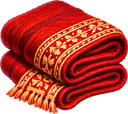
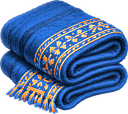
Javítás: régi meglepetések leállították a buborékok rajzolását; sarokjelzés a beszedhető épületekhez; minden jószág a felső sávban; kék posztó ikon
Claude-Session: https://claude.ai/code/session_01TrxMZhgVc5kkxwtpbvR8se

diff --git a/e04.html b/e04.html
@@ -354,6 +354,7 @@ textarea.pin{resize:vertical;min-height:70px;font-weight:700}
 @media (max-width:1650px){.freecnt{display:none}}.card .desc{display:-webkit-box;-webkit-line-clamp:2;-webkit-box-orient:vertical;overflow:hidden}.card[data-lot] .pic>span:first-child{width:110px!important;height:56px!important;margin:0 0 4px!important}.card[data-lot] .pic>span:first-child img{width:110px!important;height:56px!important;max-height:none!important}.card[data-lot] .pic>span:first-child b{width:28px!important;height:28px!important;font-size:20px!important}
 @media (max-height:760px){.card .pic{height:56px!important}.card .pic img{max-height:52px!important}}
 @media (max-height:620px){.card .pic{height:44px!important}.card .pic img{max-height:42px!important}.card .chip{font-size:10px;padding:1px 6px}.drawer-head{padding-top:4px!important;padding-bottom:4px!important}}
+.jv-more{display:inline-flex;gap:8px;margin-left:10px;padding-left:10px;border-left:1px solid rgba(255,240,210,.18);align-items:center}.jv{display:inline-flex;align-items:center;gap:4px;line-height:1}.jv img{width:26px;height:26px;object-fit:contain}.jv b{display:block;font-size:15px;color:#FFF4DF}.jv i{display:none}.jv>span{display:flex;flex-direction:column}@media (max-width:1100px){.jv-more{gap:6px;margin-left:8px;padding-left:8px}.jv img{width:22px;height:22px}}@media (max-width:760px){.jv-more{display:none}}
 </style>
 
 <div id="app"><button class="ibtn wood" type="button" id="btnDaily" aria-label="Napi feladatok"><span class="newdot" id="bDaily" hidden>!</span><svg width="22" height="22" viewBox="0 0 24 24" fill="none" stroke="#FFF4DF" stroke-width="2" stroke-linecap="round" stroke-linejoin="round" aria-hidden="true"><path d="M6 3h10a2 2 0 0 1 2 2v14a2 2 0 0 0 2 2H8a2 2 0 0 1-2-2z"/><path d="M6 3a2 2 0 0 0-2 2v2h2M10 9h5M10 13h5"/></svg>Napi</button><button class="ibtn wood" type="button" id="btnSide" aria-label="Monda" hidden><span class="newdot" id="bSide" hidden>!</span><svg width="22" height="22" viewBox="0 0 24 24" fill="none" stroke="#FFF4DF" stroke-width="2" stroke-linecap="round" stroke-linejoin="round" aria-hidden="true"><path d="M4 20l9-9M13 11l3-3a2.5 2.5 0 1 1 3.5 3.5l-3 3M11 13l3 3"/><circle cx="17.5" cy="6.5" r="1"/></svg><span>Monda</span></button><div id="chiefPops"></div><button class="btn coral" type="button" id="migChip" hidden></button><div class="movefx" id="moveFx"><span id="moveTxt"></span></div>
@@ -367,7 +368,7 @@ textarea.pin{resize:vertical;min-height:70px;font-weight:700}
     <div class="res" title="Pénz. Minden évben új pénzt vernek, és a régit be kell váltani, persze kicsit kevesebbre. Ez a kamara haszna."><img src="img/e03_ikon_penz.png" alt="Pénz (dénár)"><span><span class="num" id="rPenz">0</span><span class="lbl">Pénz · dénár</span></span></div>
     <div class="res" title="Termény (a raktár legfeljebb 1 000-et tart)"><img src="img/ikon_termeny.png" alt="Termény"><span><span class="num" id="rTerm">0</span><span class="cap" id="rCap"> / 1 000</span><span class="lbl">Termény</span></span></div>
     <div class="res" title="Tudás, magától gyűlik és a kutatáshoz kell"><img src="img/ikon_tudas.png" alt="Tudás"><span><span class="num" id="rTud">0</span><span class="lbl">Tudás</span></span></div>
-    <div class="res kincs" id="rJavak" role="button" tabindex="0" title="Fa és a többi jószág. Koppints rá, és a Raktárban mindet látod." style="cursor:pointer"><img src="img/e04_ikon_fa.png" alt="Fa"><span><span class="num" id="rKov">0</span><span class="lbl">Fa · Javak</span></span></div>
+    <div class="res kincs" id="rJavak" role="button" tabindex="0" title="Fa és a többi jószág. Koppints rá, és a Raktárban mindet látod." style="cursor:pointer"><img src="img/e04_ikon_fa.png" alt="Fa"><span><span class="num" id="rKov">0</span><span class="lbl">Fa</span></span><span class="jv-more" id="rJvMore"></span></div>
     <div class="res pop" title="Lakosok (szabad / összes)">
       <svg width="22" height="22" viewBox="0 0 24 24" fill="none" stroke="#FFF4DF" stroke-width="2" stroke-linecap="round" aria-hidden="true"><circle cx="9" cy="8" r="3"/><path d="M3 20c1-3.5 3.3-5 6-5s5 1.5 6 5"/><circle cx="17" cy="9" r="2.5"/><path d="M16 14.5c2.4 0 4.2 1.5 5 4"/></svg>
       <span><span class="num" id="rPop" style="font-size:18px">0</span><span class="lbl">Lakosok</span></span>
@@ -1604,8 +1605,9 @@ function takeSurp(x) {
   sfxCollect(); toast(tr(t.name) + '!'); save();
 }
 function drawSurprises(now) {
+  if (S.surp && S.surp.some(x => !SURPRISES.some(e => e.id === x.t))) S.surp = S.surp.filter(x => SURPRISES.some(e => e.id === x.t));
   (S.surp || []).forEach(x => {
-    const t = SURPRISES.find(e => e.id === x.t); const ic = IMG[t.icon]; const [cx, cy0] = surpPos(x);
+    const t = SURPRISES.find(e => e.id === x.t); if (!t) return; const ic = IMG[t.icon]; const [cx, cy0] = surpPos(x);
     const cy = cy0 + Math.sin(now / 400 + x.i * 3 + x.j) * 4; const left = x.born + SURP_LIFE - S.gt;
     ctx.save(); if (left < 600) ctx.globalAlpha = 0.55 + 0.45 * Math.abs(Math.sin(now / 300));
     ctx.beginPath(); ctx.ellipse(cx, cy0 + 30, 16, 6, 0, 0, 7); ctx.fillStyle = 'rgba(0,0,0,0.25)'; ctx.fill();
@@ -1813,6 +1815,7 @@ Object.assign(EN, {
   'Kidőlt fa': 'Fallen tree', 'Vadszőlő a bokorban': 'Wild grapes in the bush', 'Elkóborolt birka': 'Stray sheep', 'Csillogó kő': 'Shiny stone', 'Leesett boroshordó': 'Dropped wine barrel', 'Elhagyott posztóbála': 'Abandoned bale of cloth', 'Rozsdás kard a fűben': 'Rusty sword in the grass',
   'Pénz, Tudás, Fa és Vas': 'Money, Knowledge, Wood and Iron', 'Tudás, Korona, Gyapjú és Posztó': 'Knowledge, Crowns, Wool and Cloth', 'Pénz, Hangulat, Szőlő és Bor': 'Money, Mood, Grapes and Wine', 'Pénz, Tudás, Érc és Vas': 'Money, Knowledge, Ore and Iron', 'Tudás, Korona, Fa és Bor': 'Knowledge, Crowns, Wood and Wine'
 });
+
 
 // ---------- a háttér fái, kövei, szőlősorai: akadályok, pénzért eltakaríthatók ----------
 const OBST_P = {};
@@ -3120,8 +3123,8 @@ function draw(now) {
   const order = depthOrder(items.concat(obstItems(items)));
   try { drawShadows(order); } catch (e) { noteErr(e); }
   order.forEach(b => { try { drawBuilding(b, now, 0); } catch (e) { noteErr(e); } });
-  drawLots();
-  drawSurprises(now);
+  try { drawLots(); } catch (e) { noteErr(e); }
+  try { drawSurprises(now); } catch (e) { noteErr(e); }
   order.forEach(b => { try { drawBuilding(b, now, 1); } catch (e) { noteErr(e); } });
   if (tool && hover && tool.type !== 'ut') { try { const [ow, oh] = typeof dimsT === 'function' ? dimsT(tool.type, tool.rot) : [DEF[tool.type].size, DEF[tool.type].size]; ctx.save(); ctx.setLineDash([8, 6]); ctx.lineWidth = 2.5; rectRaw(hover[0], hover[1], ow, oh, null, 'rgba(255,255,255,0.9)'); ctx.restore(); } catch (e) {} }
   if (tool && tool.type === 'ut' && hover && inArea(hover[0], hover[1])) { const [x, y] = tileTop(hover[0], hover[1]); ctx.save(); ctx.globalAlpha = .7; ctx.fillStyle = '#D69C5E'; ctx.beginPath(); ctx.ellipse(x, y + TH / 2, TW * 0.17, TH * 0.17, 0, 0, 7); ctx.fill(); ctx.restore(); }
@@ -3387,7 +3390,7 @@ function tap(sx, sy) {
 
 // ---------- HUD ----------
 function hud() {
-  $('rPenz').textContent = fmt(S.res.penz); $('rTerm').textContent = fmt(S.res.termeny); $('rTud').textContent = fmt(S.res.tudas); $('rKov').textContent = fmt(S.res.fa || 0);
+  $('rPenz').textContent = fmt(S.res.penz); $('rTerm').textContent = fmt(S.res.termeny); $('rTud').textContent = fmt(S.res.tudas); $('rKov').textContent = fmt(S.res.fa || 0); { const jm = $('rJvMore'); if (jm) jm.innerHTML = GOODS.filter(k => k !== 'fa').map(k => `<span class="jv" title="${tr(RES[k].name)}"><img src="img/${RES[k].icon}.png" alt=""><span><b>${fmt(S.res[k] || 0)}</b><i>${tr(RES[k].name)}</i></span></span>`).join(''); }
   const capT = ' / ' + fmt(termCap()); if ($('rCap').textContent !== capT) $('rCap').textContent = capT; $('rTerm').parentElement.parentElement.classList.toggle('full', S.res.termeny >= termCap());
   $('korN').textContent = S.korona == null ? 25 : S.korona;
   const p = pop(), w = workers(); $('rPop').textContent = (p - w) + ' / ' + p;
@@ -5425,6 +5428,39 @@ function rearUI() {
     $('hvnT1').onclick = () => { if (S.night) { S.night.test = true; morning(false); } else startNight(Date.now(), true); };
     $('hvnT2').onclick = () => { if (S.night) return; if (openModal) closeModal(); ask(); };
   }
+
+  // ---- sarokjelzés, mint a Forge-ban: ha van mit beszedni, megmutatja, hol ----
+  const rdy = document.createElement('button'); rdy.id = 'hvnReady'; rdy.type = 'button'; rdy.hidden = true; document.body.appendChild(rdy);
+  const st2 = document.createElement('style');
+  st2.textContent = `#hvnReady{position:fixed;right:calc(18px + env(safe-area-inset-right,0px));bottom:calc(270px + env(safe-area-inset-bottom,0px));z-index:6;width:66px;height:66px;border-radius:50%;border:4px solid #F5C542;background:#FFF4DF;box-shadow:0 6px 18px rgba(40,20,5,.35);cursor:pointer;padding:0;display:flex;align-items:center;justify-content:center;animation:hvnBob 2.4s ease-in-out infinite}
+  #hvnReady img{width:42px;height:42px;object-fit:contain;pointer-events:none}#hvnReady[hidden]{display:none}
+  #hvnReady b{position:absolute;top:-6px;right:-6px;min-width:24px;height:24px;padding:0 6px;border-radius:12px;background:#C9472F;color:#fff;font:800 13px/24px Nunito,sans-serif;box-shadow:0 2px 6px rgba(0,0,0,.3)}
+  #hvnReady span{position:absolute;bottom:-22px;left:50%;transform:translateX(-50%);white-space:nowrap;font:800 11px Nunito,sans-serif;color:#FFF4DF;text-shadow:0 1px 3px rgba(0,0,0,.8)}
+  @keyframes hvnBob{0%,100%{transform:translateY(0)}50%{transform:translateY(-4px)}}`;
+  document.head.appendChild(st2);
+  let rIdx = 0, focus = null, pan = null, rSig = '';
+  const readyList = () => S.buildings.filter(b => { try { return DEF[b.type] && DEF[b.type].prod && ready(b) && !(typeof storeFull === 'function' && storeFull(b)); } catch (e) { return false; } });
+  const ctr = b => { const r = spriteRect(b); if (!r) return null; return [r.cx != null ? r.cx : (r.L[0] + r.R[0]) / 2, r.y + r.h * 0.55]; };
+  function updReady() {
+    const list = S && !S.night && !(typeof tool !== 'undefined' && tool) ? readyList() : [];
+    if (!list.length) { rdy.hidden = true; rSig = ''; return; }
+    const k = Object.keys(DEF[list[0].type].prod)[0], im = (typeof IMG !== 'undefined' && IMG[RES[k] && RES[k].icon]) || null, src = im ? im.src : 'img/' + (RES[k] && RES[k].icon) + '.png';
+    const sig = list.length + '|' + src; if (sig !== rSig) { rSig = sig; rdy.innerHTML = `<img src="${src}" alt=""><b>${list.length}</b><span>${tr('Beszedhető')}</span>`; rdy.title = tr('Van mit beszedni! Koppints, és megmutatom, hol.'); }
+    rdy.hidden = false;
+  }
+  rdy.onclick = () => {
+    const list = readyList(); if (!list.length) return; const b = list[rIdx++ % list.length], c = ctr(b); if (!c) return;
+    const fx = camX + W / scale / 2, fy = camY + H / scale / 2; pan = { fx, fy, tx: c[0], ty: c[1], t0: performance.now() }; focus = { id: b.id, t0: performance.now() };
+  };
+  const _draw2 = draw;
+  draw = function (now) {
+    if (pan) { const k = Math.min(1, (performance.now() - pan.t0) / 450), e = 1 - Math.pow(1 - k, 3); centerOn(pan.fx + (pan.tx - pan.fx) * e, pan.fy + (pan.ty - pan.fy) * e); if (k >= 1) pan = null; }
+    _draw2(now);
+    if (focus) { const age = performance.now() - focus.t0, b = S.buildings.find(x => x.id === focus.id); if (age > 2600 || !b) { focus = null; return; }
+      const c = ctr(b); if (!c) return; const x = (c[0] - camX) * scale, y = (c[1] - camY) * scale, R = (60 + 14 * Math.sin(age / 140)) * Math.max(0.6, scale);
+      ctx.save(); ctx.setTransform(DPR, 0, 0, DPR, 0, 0); ctx.globalAlpha = Math.min(1, (2600 - age) / 600); ctx.lineWidth = 5; ctx.strokeStyle = '#F5C542'; ctx.shadowColor = 'rgba(255,230,150,.9)'; ctx.shadowBlur = 14; ctx.beginPath(); ctx.ellipse(x, y, R * 1.25, R * 0.75, 0, 0, 7); ctx.stroke(); ctx.restore(); }
+  };
+  setInterval(() => { try { updReady(); } catch (e) {} }, 1000);
 
   try { fromAway(); } catch (e) {}
   markSeen(); renderBar();

diff --git a/e01.html b/e01.html
@@ -3509,6 +3509,39 @@ function rearUI() {
     $('hvnT2').onclick = () => { if (S.night) return; if (openModal) closeModal(); ask(); };
   }
 
+  // ---- sarokjelzés, mint a Forge-ban: ha van mit beszedni, megmutatja, hol ----
+  const rdy = document.createElement('button'); rdy.id = 'hvnReady'; rdy.type = 'button'; rdy.hidden = true; document.body.appendChild(rdy);
+  const st2 = document.createElement('style');
+  st2.textContent = `#hvnReady{position:fixed;right:calc(18px + env(safe-area-inset-right,0px));bottom:calc(270px + env(safe-area-inset-bottom,0px));z-index:6;width:66px;height:66px;border-radius:50%;border:4px solid #F5C542;background:#FFF4DF;box-shadow:0 6px 18px rgba(40,20,5,.35);cursor:pointer;padding:0;display:flex;align-items:center;justify-content:center;animation:hvnBob 2.4s ease-in-out infinite}
+  #hvnReady img{width:42px;height:42px;object-fit:contain;pointer-events:none}#hvnReady[hidden]{display:none}
+  #hvnReady b{position:absolute;top:-6px;right:-6px;min-width:24px;height:24px;padding:0 6px;border-radius:12px;background:#C9472F;color:#fff;font:800 13px/24px Nunito,sans-serif;box-shadow:0 2px 6px rgba(0,0,0,.3)}
+  #hvnReady span{position:absolute;bottom:-22px;left:50%;transform:translateX(-50%);white-space:nowrap;font:800 11px Nunito,sans-serif;color:#FFF4DF;text-shadow:0 1px 3px rgba(0,0,0,.8)}
+  @keyframes hvnBob{0%,100%{transform:translateY(0)}50%{transform:translateY(-4px)}}`;
+  document.head.appendChild(st2);
+  let rIdx = 0, focus = null, pan = null, rSig = '';
+  const readyList = () => S.buildings.filter(b => { try { return DEF[b.type] && DEF[b.type].prod && ready(b) && !(typeof storeFull === 'function' && storeFull(b)); } catch (e) { return false; } });
+  const ctr = b => { const r = spriteRect(b); if (!r) return null; return [r.cx != null ? r.cx : (r.L[0] + r.R[0]) / 2, r.y + r.h * 0.55]; };
+  function updReady() {
+    const list = S && !S.night && !(typeof tool !== 'undefined' && tool) ? readyList() : [];
+    if (!list.length) { rdy.hidden = true; rSig = ''; return; }
+    const k = Object.keys(DEF[list[0].type].prod)[0], im = (typeof IMG !== 'undefined' && IMG[RES[k] && RES[k].icon]) || null, src = im ? im.src : 'img/' + (RES[k] && RES[k].icon) + '.png';
+    const sig = list.length + '|' + src; if (sig !== rSig) { rSig = sig; rdy.innerHTML = `<img src="${src}" alt=""><b>${list.length}</b><span>${tr('Beszedhető')}</span>`; rdy.title = tr('Van mit beszedni! Koppints, és megmutatom, hol.'); }
+    rdy.hidden = false;
+  }
+  rdy.onclick = () => {
+    const list = readyList(); if (!list.length) return; const b = list[rIdx++ % list.length], c = ctr(b); if (!c) return;
+    const fx = camX + W / scale / 2, fy = camY + H / scale / 2; pan = { fx, fy, tx: c[0], ty: c[1], t0: performance.now() }; focus = { id: b.id, t0: performance.now() };
+  };
+  const _draw2 = draw;
+  draw = function (now) {
+    if (pan) { const k = Math.min(1, (performance.now() - pan.t0) / 450), e = 1 - Math.pow(1 - k, 3); centerOn(pan.fx + (pan.tx - pan.fx) * e, pan.fy + (pan.ty - pan.fy) * e); if (k >= 1) pan = null; }
+    _draw2(now);
+    if (focus) { const age = performance.now() - focus.t0, b = S.buildings.find(x => x.id === focus.id); if (age > 2600 || !b) { focus = null; return; }
+      const c = ctr(b); if (!c) return; const x = (c[0] - camX) * scale, y = (c[1] - camY) * scale, R = (60 + 14 * Math.sin(age / 140)) * Math.max(0.6, scale);
+      ctx.save(); ctx.setTransform(DPR, 0, 0, DPR, 0, 0); ctx.globalAlpha = Math.min(1, (2600 - age) / 600); ctx.lineWidth = 5; ctx.strokeStyle = '#F5C542'; ctx.shadowColor = 'rgba(255,230,150,.9)'; ctx.shadowBlur = 14; ctx.beginPath(); ctx.ellipse(x, y, R * 1.25, R * 0.75, 0, 0, 7); ctx.stroke(); ctx.restore(); }
+  };
+  setInterval(() => { try { updReady(); } catch (e) {} }, 1000);
+
   try { fromAway(); } catch (e) {}
   markSeen(); renderBar();
   setInterval(() => { try { check(); } catch (e) {} }, 15000);

diff --git a/e02.html b/e02.html
@@ -3683,6 +3683,39 @@ function rearUI() {
     $('hvnT2').onclick = () => { if (S.night) return; if (openModal) closeModal(); ask(); };
   }
 
+  // ---- sarokjelzés, mint a Forge-ban: ha van mit beszedni, megmutatja, hol ----
+  const rdy = document.createElement('button'); rdy.id = 'hvnReady'; rdy.type = 'button'; rdy.hidden = true; document.body.appendChild(rdy);
+  const st2 = document.createElement('style');
+  st2.textContent = `#hvnReady{position:fixed;right:calc(18px + env(safe-area-inset-right,0px));bottom:calc(270px + env(safe-area-inset-bottom,0px));z-index:6;width:66px;height:66px;border-radius:50%;border:4px solid #F5C542;background:#FFF4DF;box-shadow:0 6px 18px rgba(40,20,5,.35);cursor:pointer;padding:0;display:flex;align-items:center;justify-content:center;animation:hvnBob 2.4s ease-in-out infinite}
+  #hvnReady img{width:42px;height:42px;object-fit:contain;pointer-events:none}#hvnReady[hidden]{display:none}
+  #hvnReady b{position:absolute;top:-6px;right:-6px;min-width:24px;height:24px;padding:0 6px;border-radius:12px;background:#C9472F;color:#fff;font:800 13px/24px Nunito,sans-serif;box-shadow:0 2px 6px rgba(0,0,0,.3)}
+  #hvnReady span{position:absolute;bottom:-22px;left:50%;transform:translateX(-50%);white-space:nowrap;font:800 11px Nunito,sans-serif;color:#FFF4DF;text-shadow:0 1px 3px rgba(0,0,0,.8)}
+  @keyframes hvnBob{0%,100%{transform:translateY(0)}50%{transform:translateY(-4px)}}`;
+  document.head.appendChild(st2);
+  let rIdx = 0, focus = null, pan = null, rSig = '';
+  const readyList = () => S.buildings.filter(b => { try { return DEF[b.type] && DEF[b.type].prod && ready(b) && !(typeof storeFull === 'function' && storeFull(b)); } catch (e) { return false; } });
+  const ctr = b => { const r = spriteRect(b); if (!r) return null; return [r.cx != null ? r.cx : (r.L[0] + r.R[0]) / 2, r.y + r.h * 0.55]; };
+  function updReady() {
+    const list = S && !S.night && !(typeof tool !== 'undefined' && tool) ? readyList() : [];
+    if (!list.length) { rdy.hidden = true; rSig = ''; return; }
+    const k = Object.keys(DEF[list[0].type].prod)[0], im = (typeof IMG !== 'undefined' && IMG[RES[k] && RES[k].icon]) || null, src = im ? im.src : 'img/' + (RES[k] && RES[k].icon) + '.png';
+    const sig = list.length + '|' + src; if (sig !== rSig) { rSig = sig; rdy.innerHTML = `<img src="${src}" alt=""><b>${list.length}</b><span>${tr('Beszedhető')}</span>`; rdy.title = tr('Van mit beszedni! Koppints, és megmutatom, hol.'); }
+    rdy.hidden = false;
+  }
+  rdy.onclick = () => {
+    const list = readyList(); if (!list.length) return; const b = list[rIdx++ % list.length], c = ctr(b); if (!c) return;
+    const fx = camX + W / scale / 2, fy = camY + H / scale / 2; pan = { fx, fy, tx: c[0], ty: c[1], t0: performance.now() }; focus = { id: b.id, t0: performance.now() };
+  };
+  const _draw2 = draw;
+  draw = function (now) {
+    if (pan) { const k = Math.min(1, (performance.now() - pan.t0) / 450), e = 1 - Math.pow(1 - k, 3); centerOn(pan.fx + (pan.tx - pan.fx) * e, pan.fy + (pan.ty - pan.fy) * e); if (k >= 1) pan = null; }
+    _draw2(now);
+    if (focus) { const age = performance.now() - focus.t0, b = S.buildings.find(x => x.id === focus.id); if (age > 2600 || !b) { focus = null; return; }
+      const c = ctr(b); if (!c) return; const x = (c[0] - camX) * scale, y = (c[1] - camY) * scale, R = (60 + 14 * Math.sin(age / 140)) * Math.max(0.6, scale);
+      ctx.save(); ctx.setTransform(DPR, 0, 0, DPR, 0, 0); ctx.globalAlpha = Math.min(1, (2600 - age) / 600); ctx.lineWidth = 5; ctx.strokeStyle = '#F5C542'; ctx.shadowColor = 'rgba(255,230,150,.9)'; ctx.shadowBlur = 14; ctx.beginPath(); ctx.ellipse(x, y, R * 1.25, R * 0.75, 0, 0, 7); ctx.stroke(); ctx.restore(); }
+  };
+  setInterval(() => { try { updReady(); } catch (e) {} }, 1000);
+
   try { fromAway(); } catch (e) {}
   markSeen(); renderBar();
   setInterval(() => { try { check(); } catch (e) {} }, 15000);

diff --git a/e03.html b/e03.html
@@ -3935,6 +3935,39 @@ function rearUI() {
     $('hvnT2').onclick = () => { if (S.night) return; if (openModal) closeModal(); ask(); };
   }
 
+  // ---- sarokjelzés, mint a Forge-ban: ha van mit beszedni, megmutatja, hol ----
+  const rdy = document.createElement('button'); rdy.id = 'hvnReady'; rdy.type = 'button'; rdy.hidden = true; document.body.appendChild(rdy);
+  const st2 = document.createElement('style');
+  st2.textContent = `#hvnReady{position:fixed;right:calc(18px + env(safe-area-inset-right,0px));bottom:calc(270px + env(safe-area-inset-bottom,0px));z-index:6;width:66px;height:66px;border-radius:50%;border:4px solid #F5C542;background:#FFF4DF;box-shadow:0 6px 18px rgba(40,20,5,.35);cursor:pointer;padding:0;display:flex;align-items:center;justify-content:center;animation:hvnBob 2.4s ease-in-out infinite}
+  #hvnReady img{width:42px;height:42px;object-fit:contain;pointer-events:none}#hvnReady[hidden]{display:none}
+  #hvnReady b{position:absolute;top:-6px;right:-6px;min-width:24px;height:24px;padding:0 6px;border-radius:12px;background:#C9472F;color:#fff;font:800 13px/24px Nunito,sans-serif;box-shadow:0 2px 6px rgba(0,0,0,.3)}
+  #hvnReady span{position:absolute;bottom:-22px;left:50%;transform:translateX(-50%);white-space:nowrap;font:800 11px Nunito,sans-serif;color:#FFF4DF;text-shadow:0 1px 3px rgba(0,0,0,.8)}
+  @keyframes hvnBob{0%,100%{transform:translateY(0)}50%{transform:translateY(-4px)}}`;
+  document.head.appendChild(st2);
+  let rIdx = 0, focus = null, pan = null, rSig = '';
+  const readyList = () => S.buildings.filter(b => { try { return DEF[b.type] && DEF[b.type].prod && ready(b) && !(typeof storeFull === 'function' && storeFull(b)); } catch (e) { return false; } });
+  const ctr = b => { const r = spriteRect(b); if (!r) return null; return [r.cx != null ? r.cx : (r.L[0] + r.R[0]) / 2, r.y + r.h * 0.55]; };
+  function updReady() {
+    const list = S && !S.night && !(typeof tool !== 'undefined' && tool) ? readyList() : [];
+    if (!list.length) { rdy.hidden = true; rSig = ''; return; }
+    const k = Object.keys(DEF[list[0].type].prod)[0], im = (typeof IMG !== 'undefined' && IMG[RES[k] && RES[k].icon]) || null, src = im ? im.src : 'img/' + (RES[k] && RES[k].icon) + '.png';
+    const sig = list.length + '|' + src; if (sig !== rSig) { rSig = sig; rdy.innerHTML = `<img src="${src}" alt=""><b>${list.length}</b><span>${tr('Beszedhető')}</span>`; rdy.title = tr('Van mit beszedni! Koppints, és megmutatom, hol.'); }
+    rdy.hidden = false;
+  }
+  rdy.onclick = () => {
+    const list = readyList(); if (!list.length) return; const b = list[rIdx++ % list.length], c = ctr(b); if (!c) return;
+    const fx = camX + W / scale / 2, fy = camY + H / scale / 2; pan = { fx, fy, tx: c[0], ty: c[1], t0: performance.now() }; focus = { id: b.id, t0: performance.now() };
+  };
+  const _draw2 = draw;
+  draw = function (now) {
+    if (pan) { const k = Math.min(1, (performance.now() - pan.t0) / 450), e = 1 - Math.pow(1 - k, 3); centerOn(pan.fx + (pan.tx - pan.fx) * e, pan.fy + (pan.ty - pan.fy) * e); if (k >= 1) pan = null; }
+    _draw2(now);
+    if (focus) { const age = performance.now() - focus.t0, b = S.buildings.find(x => x.id === focus.id); if (age > 2600 || !b) { focus = null; return; }
+      const c = ctr(b); if (!c) return; const x = (c[0] - camX) * scale, y = (c[1] - camY) * scale, R = (60 + 14 * Math.sin(age / 140)) * Math.max(0.6, scale);
+      ctx.save(); ctx.setTransform(DPR, 0, 0, DPR, 0, 0); ctx.globalAlpha = Math.min(1, (2600 - age) / 600); ctx.lineWidth = 5; ctx.strokeStyle = '#F5C542'; ctx.shadowColor = 'rgba(255,230,150,.9)'; ctx.shadowBlur = 14; ctx.beginPath(); ctx.ellipse(x, y, R * 1.25, R * 0.75, 0, 0, 7); ctx.stroke(); ctx.restore(); }
+  };
+  setInterval(() => { try { updReady(); } catch (e) {} }, 1000);
+
   try { fromAway(); } catch (e) {}
   markSeen(); renderBar();
   setInterval(() => { try { check(); } catch (e) {} }, 15000);

diff --git a/index.html b/index.html
@@ -2970,6 +2970,39 @@ function rearUI() {
     $('hvnT2').onclick = () => { if (S.night) return; if (openModal) closeModal(); ask(); };
   }
 
+  // ---- sarokjelzés, mint a Forge-ban: ha van mit beszedni, megmutatja, hol ----
+  const rdy = document.createElement('button'); rdy.id = 'hvnReady'; rdy.type = 'button'; rdy.hidden = true; document.body.appendChild(rdy);
+  const st2 = document.createElement('style');
+  st2.textContent = `#hvnReady{position:fixed;right:calc(18px + env(safe-area-inset-right,0px));bottom:calc(270px + env(safe-area-inset-bottom,0px));z-index:6;width:66px;height:66px;border-radius:50%;border:4px solid #F5C542;background:#FFF4DF;box-shadow:0 6px 18px rgba(40,20,5,.35);cursor:pointer;padding:0;display:flex;align-items:center;justify-content:center;animation:hvnBob 2.4s ease-in-out infinite}
+  #hvnReady img{width:42px;height:42px;object-fit:contain;pointer-events:none}#hvnReady[hidden]{display:none}
+  #hvnReady b{position:absolute;top:-6px;right:-6px;min-width:24px;height:24px;padding:0 6px;border-radius:12px;background:#C9472F;color:#fff;font:800 13px/24px Nunito,sans-serif;box-shadow:0 2px 6px rgba(0,0,0,.3)}
+  #hvnReady span{position:absolute;bottom:-22px;left:50%;transform:translateX(-50%);white-space:nowrap;font:800 11px Nunito,sans-serif;color:#FFF4DF;text-shadow:0 1px 3px rgba(0,0,0,.8)}
+  @keyframes hvnBob{0%,100%{transform:translateY(0)}50%{transform:translateY(-4px)}}`;
+  document.head.appendChild(st2);
+  let rIdx = 0, focus = null, pan = null, rSig = '';
+  const readyList = () => S.buildings.filter(b => { try { return DEF[b.type] && DEF[b.type].prod && ready(b) && !(typeof storeFull === 'function' && storeFull(b)); } catch (e) { return false; } });
+  const ctr = b => { const r = spriteRect(b); if (!r) return null; return [r.cx != null ? r.cx : (r.L[0] + r.R[0]) / 2, r.y + r.h * 0.55]; };
+  function updReady() {
+    const list = S && !S.night && !(typeof tool !== 'undefined' && tool) ? readyList() : [];
+    if (!list.length) { rdy.hidden = true; rSig = ''; return; }
+    const k = Object.keys(DEF[list[0].type].prod)[0], im = (typeof IMG !== 'undefined' && IMG[RES[k] && RES[k].icon]) || null, src = im ? im.src : 'img/' + (RES[k] && RES[k].icon) + '.png';
+    const sig = list.length + '|' + src; if (sig !== rSig) { rSig = sig; rdy.innerHTML = `<img src="${src}" alt=""><b>${list.length}</b><span>${tr('Beszedhető')}</span>`; rdy.title = tr('Van mit beszedni! Koppints, és megmutatom, hol.'); }
+    rdy.hidden = false;
+  }
+  rdy.onclick = () => {
+    const list = readyList(); if (!list.length) return; const b = list[rIdx++ % list.length], c = ctr(b); if (!c) return;
+    const fx = camX + W / scale / 2, fy = camY + H / scale / 2; pan = { fx, fy, tx: c[0], ty: c[1], t0: performance.now() }; focus = { id: b.id, t0: performance.now() };
+  };
+  const _draw2 = draw;
+  draw = function (now) {
+    if (pan) { const k = Math.min(1, (performance.now() - pan.t0) / 450), e = 1 - Math.pow(1 - k, 3); centerOn(pan.fx + (pan.tx - pan.fx) * e, pan.fy + (pan.ty - pan.fy) * e); if (k >= 1) pan = null; }
+    _draw2(now);
+    if (focus) { const age = performance.now() - focus.t0, b = S.buildings.find(x => x.id === focus.id); if (age > 2600 || !b) { focus = null; return; }
+      const c = ctr(b); if (!c) return; const x = (c[0] - camX) * scale, y = (c[1] - camY) * scale, R = (60 + 14 * Math.sin(age / 140)) * Math.max(0.6, scale);
+      ctx.save(); ctx.setTransform(DPR, 0, 0, DPR, 0, 0); ctx.globalAlpha = Math.min(1, (2600 - age) / 600); ctx.lineWidth = 5; ctx.strokeStyle = '#F5C542'; ctx.shadowColor = 'rgba(255,230,150,.9)'; ctx.shadowBlur = 14; ctx.beginPath(); ctx.ellipse(x, y, R * 1.25, R * 0.75, 0, 0, 7); ctx.stroke(); ctx.restore(); }
+  };
+  setInterval(() => { try { updReady(); } catch (e) {} }, 1000);
+
   try { fromAway(); } catch (e) {}
   markSeen(); renderBar();
   setInterval(() => { try { check(); } catch (e) {} }, 15000);
